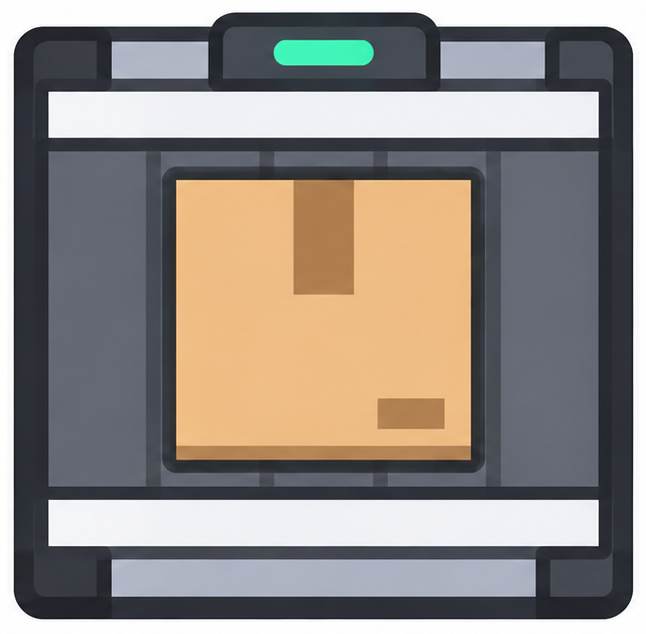
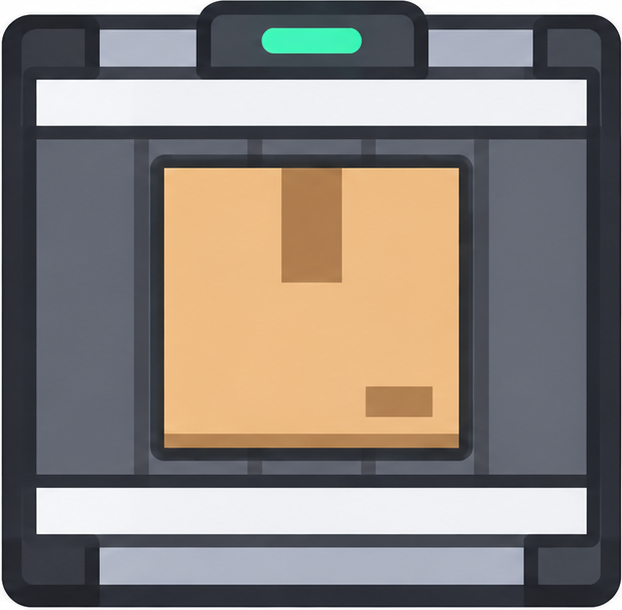
[Fix] AGV 이미지 수정 및 오브젝트 배치 변경

Changed region(s): [[0.0, 0.0, 1.0, 0.9967], [0.4582, 0.4361, 0.5498, 0.4672]]

diff --git a/src/components/SimulationPreview.tsx b/src/components/SimulationPreview.tsx
@@ -1,3 +1,4 @@
+import { useEffect, useRef, useState } from 'react'
 import agvModel from '../assets/models/agv.png'
 import conveyorLoadedModel from '../assets/models/conveyor-loaded.png'
 import conveyorModel from '../assets/models/conveyor.png'
@@ -11,11 +12,51 @@ type LayoutDiagramProps = {
 
 function LayoutDiagram({ idPrefix }: LayoutDiagramProps) {
   const arrowId = `${idPrefix}-arrow`
+  const diagramRef = useRef<SVGSVGElement>(null)
+  const [diagramMetrics, setDiagramMetrics] = useState({ width: 920, gridSize: 24 })
+  const unitSize = (diagramMetrics.gridSize * 920) / diagramMetrics.width
+  const originX = 20
+  const portY = 20
+  const objectSize = unitSize * 2
+  const agvY = portY + objectSize + unitSize * 0.75
+  const conveyorY = agvY + unitSize + unitSize * 0.75
+  const conveyorPositions = [originX, originX + objectSize, originX + objectSize * 2]
+  const rackX = originX + objectSize * 3 + unitSize * 0.5
+  const rackY = conveyorY - unitSize / 2
+  const objectCenterX = originX + unitSize
+  const portCenterY = portY + unitSize
+  const agvCenterY = agvY + unitSize / 2
+  const conveyorCenterY = conveyorY + unitSize
+  const rackCenterX = rackX + unitSize * 1.5
+  const rackCenterY = rackY + unitSize * 1.5
+  const conveyorLabelY = conveyorY + objectSize + unitSize * 0.34
+  const conveyorLabelLineHeight = unitSize * 0.45
+
+  useEffect(() => {
+    const diagram = diagramRef.current
+    if (!diagram) return
+
+    const observer = new ResizeObserver(([entry]) => {
+      if (entry) {
+        const gridSize = Number.parseFloat(
+          getComputedStyle(diagram).getPropertyValue('--layout-grid-size'),
+        )
+        setDiagramMetrics({
+          width: entry.contentRect.width,
+          gridSize: Number.isFinite(gridSize) ? gridSize : 24,
+        })
+      }
+    })
+    observer.observe(diagram)
+
+    return () => observer.disconnect()
+  }, [])
 
   return (
     <svg
+      ref={diagramRef}
       className={`layout-diagram${idPrefix === 'modeling' ? ' layout-diagram--modeler' : ''}`}
-      viewBox="0 0 720 440"
+      viewBox="0 0 920 560"
       preserveAspectRatio="xMidYMid meet"
       role="img"
       aria-labelledby={`${idPrefix}-title ${idPrefix}-description`}
@@ -37,31 +78,40 @@ function LayoutDiagram({ idPrefix }: LayoutDiagramProps) {
           <path d="M0 0v8l7-4z" fill="#42c7e8" />
         </marker>
       </defs>
+      <image href={portModel} x={originX} y={portY} width={objectSize} height={objectSize} preserveAspectRatio="none" />
+      <image href={agvModel} x={objectCenterX - unitSize / 2} y={agvY} width={unitSize} height={unitSize} preserveAspectRatio="xMidYMid meet" />
+      <g className="diagram-conveyor" aria-label="세 개의 연결된 컨베이어 유닛">
+        <image href={conveyorModel} x={conveyorPositions[0]} y={conveyorY} width={objectSize} height={objectSize} preserveAspectRatio="none" />
+        <image href={conveyorLoadedModel} x={conveyorPositions[1]} y={conveyorY} width={objectSize} height={objectSize} preserveAspectRatio="none" />
+        <image href={conveyorModel} x={conveyorPositions[2]} y={conveyorY} width={objectSize} height={objectSize} preserveAspectRatio="none" />
+        <rect className="diagram-conveyor__selection" x={conveyorPositions[1]} y={conveyorY} width={objectSize} height={objectSize} rx="3" />
+      </g>
+      <image href={rackModel} x={rackX} y={rackY} width={unitSize * 3} height={unitSize * 3} preserveAspectRatio="none" />
       {idPrefix === 'modeling' && (
         <g className="diagram-connection">
-          <path d="M124 91L157 202" markerEnd={`url(#${arrowId})`} />
-          <path d="M157 202L124 328" markerEnd={`url(#${arrowId})`} />
-          <path d="M124 328L264 328" markerEnd={`url(#${arrowId})`} />
-          <path d="M264 328L404 328" markerEnd={`url(#${arrowId})`} />
-          <path d="M404 328L608 310" markerEnd={`url(#${arrowId})`} />
+          <path d={`M${objectCenterX} ${portCenterY}L${objectCenterX} ${agvCenterY}`} markerEnd={`url(#${arrowId})`} />
+          <path d={`M${objectCenterX} ${agvCenterY}L${objectCenterX} ${conveyorCenterY}`} markerEnd={`url(#${arrowId})`} />
+          <path d={`M${objectCenterX} ${conveyorCenterY}L${objectCenterX + objectSize} ${conveyorCenterY}`} markerEnd={`url(#${arrowId})`} />
+          <path d={`M${objectCenterX + objectSize} ${conveyorCenterY}L${objectCenterX + objectSize * 2} ${conveyorCenterY}`} markerEnd={`url(#${arrowId})`} />
+          <path d={`M${objectCenterX + objectSize * 2} ${conveyorCenterY}L${rackCenterX} ${rackCenterY}`} markerEnd={`url(#${arrowId})`} />
         </g>
       )}
-      <image href={portModel} x="84" y="49" width="80" height="85" preserveAspectRatio="xMidYMid meet" />
-      <image href={agvModel} x="110" y="144" width="94" height="116" preserveAspectRatio="xMidYMid meet" />
-      <g className="diagram-conveyor" aria-label="세 개의 연결된 컨베이어 유닛">
-        <image href={conveyorModel} x="62" y="267" width="124" height="122" preserveAspectRatio="xMidYMid meet" />
-        <image href={conveyorLoadedModel} x="202" y="267" width="124" height="122" preserveAspectRatio="xMidYMid meet" />
-        <image href={conveyorModel} x="342" y="267" width="124" height="122" preserveAspectRatio="xMidYMid meet" />
-        <rect className="diagram-conveyor__selection" x="202" y="267" width="124" height="122" rx="3" />
-      </g>
-      <image href={rackModel} x="550" y="253" width="116" height="110" preserveAspectRatio="xMidYMid meet" />
       <g className="diagram-object-label">
-        <text x="54" y="40">PORT-01</text>
-        <text x="70" y="140">AGV-01</text>
-        <text x="77" y="408">CONVEYOR-01</text>
-        <text x="217" y="408">CONVEYOR-02</text>
-        <text x="357" y="408">CONVEYOR-03</text>
-        <text x="542" y="247">RACK-01</text>
+        <text x={objectCenterX} y={portY - 7} textAnchor="middle">PORT-01</text>
+        <text x={objectCenterX} y={agvY + unitSize + unitSize * 0.42} textAnchor="middle">AGV-01</text>
+        <text x={conveyorPositions[0] + unitSize} y={conveyorLabelY} textAnchor="middle" style={{ fontSize: unitSize * 0.32 }}>
+          <tspan x={conveyorPositions[0] + unitSize}>CONVEYOR-</tspan>
+          <tspan x={conveyorPositions[0] + unitSize} dy={conveyorLabelLineHeight}>01</tspan>
+        </text>
+        <text x={conveyorPositions[1] + unitSize} y={conveyorLabelY} textAnchor="middle" style={{ fontSize: unitSize * 0.32 }}>
+          <tspan x={conveyorPositions[1] + unitSize}>CONVEYOR-</tspan>
+          <tspan x={conveyorPositions[1] + unitSize} dy={conveyorLabelLineHeight}>02</tspan>
+        </text>
+        <text x={conveyorPositions[2] + unitSize} y={conveyorLabelY} textAnchor="middle" style={{ fontSize: unitSize * 0.32 }}>
+          <tspan x={conveyorPositions[2] + unitSize}>CONVEYOR-</tspan>
+          <tspan x={conveyorPositions[2] + unitSize} dy={conveyorLabelLineHeight}>03</tspan>
+        </text>
+        <text x={rackX} y={rackY - 7}>RACK-01</text>
       </g>
     </svg>
   )

diff --git a/src/App.css b/src/App.css
@@ -2448,13 +2448,14 @@
 
 .screen-layout,
 .runtime-layout {
+  --layout-grid-size: 24px;
   min-width: 0;
   padding: 9px;
   background-color: #0b1524;
   background-image:
     linear-gradient(rgba(40, 61, 84, 0.3) 1px, transparent 1px),
     linear-gradient(90deg, rgba(40, 61, 84, 0.3) 1px, transparent 1px);
-  background-size: 24px 24px;
+  background-size: var(--layout-grid-size) var(--layout-grid-size);
 }
 
 .screen-layout {
@@ -2649,11 +2650,11 @@
 }
 
 .runtime-action-dialog {
-  width: min(270px, 46%);
+  width: min(270px, 35%);
   position: absolute;
   z-index: 1;
   top: 60%;
-  left: 48%;
+  left: 64%;
   overflow: hidden;
   color: #cbd7e3;
   background: rgba(15, 28, 44, 0.97);
@@ -2823,12 +2824,17 @@
   }
 
   .runtime-action-dialog {
-    width: min(250px, 46%);
-    left: 48%;
+    width: min(250px, 35%);
+    left: 64%;
   }
 }
 
 @media (max-width: 620px) {
+  .screen-layout,
+  .runtime-layout {
+    --layout-grid-size: 16px;
+  }
+
   .simulation-preview {
     gap: 12px;
   }
@@ -2869,9 +2875,9 @@
   }
 
   .runtime-action-dialog {
-    width: calc(52% - 8px);
+    width: calc(50% - 8px);
     top: 62%;
-    left: 46%;
+    left: 48%;
   }
 
   .simulation-screen__footer > span:last-child {
